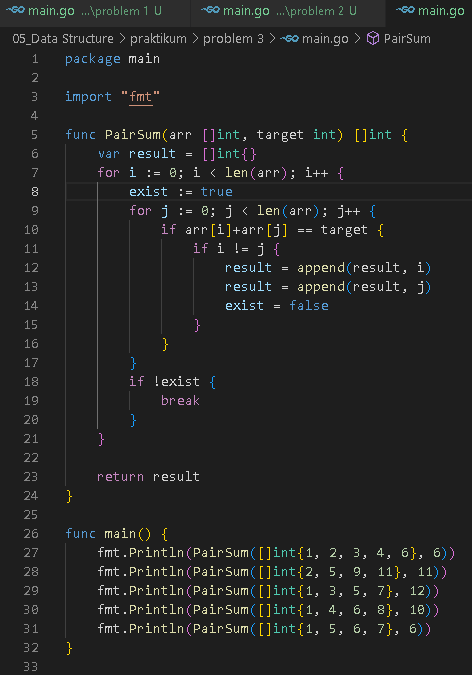
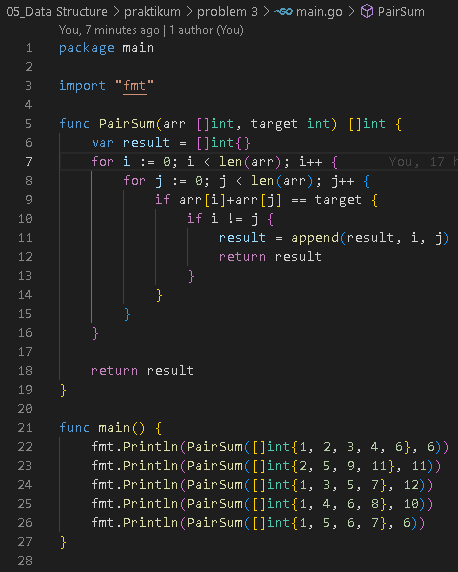
[update] summary and screenshots data structure

diff --git a/05_Data Structure/README.md b/05_Data Structure/README.md
@@ -40,3 +40,12 @@
     <br>
     <img src="screenshots/problem3_output.png">
 </p>
+<br>
+<h2>Challenges Problem 3 - Membuat dengan Time Complexity O(n)</h2>
+<p align="center">
+    <img src="screenshots/challenges_code.png">
+    <br>
+    Output
+    <br>
+    <img src="screenshots/challenges_output.png">
+</p>
